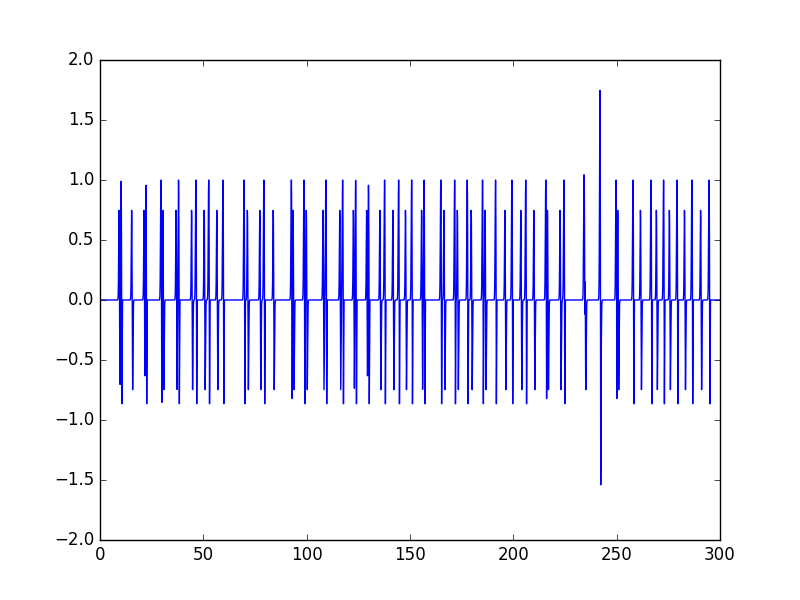
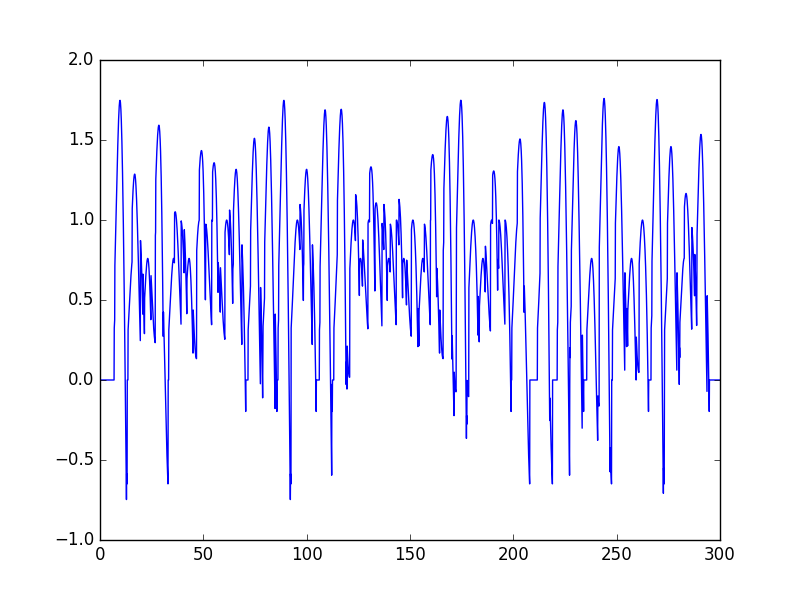
change a bug
change the number of points inside a spike

diff --git a/data_initilization_2D.py b/data_initilization_2D.py
@@ -70,7 +70,7 @@ def signal_simulator(time, spike_len, mu,sigma,lambd,unit=0.1, plot=False):
 
 	x_axis=x*unit
 
-	spike_x=np.arange(-spike_len_unit/2,spike_len_unit/2)
+	spike_x=np.arange(-spike_len/2,spike_len/2,unit)
 
 	spike1=np.exp(-np.power(spike_x/1.0 - mu1, 2.) / (2 * np.power(sigma1, 2.)))
 	spike2=np.exp(-np.power(spike_x/1.0- mu2, 2.) / (2 * np.power(sigma2, 2.)))
@@ -123,11 +123,11 @@ x2,y2=signal_simulator(300,6,[0,4],[2,1],2,0.1,False)
 y=y1+y2
 
 y_n=noise(y,0.1)
-plt.plot(x1,y)
+plt.plot(y)
 
 plt.show()
 
-plt.plot(x1,y_n)
+plt.plot(y_n)
 plt.show()
 
 
